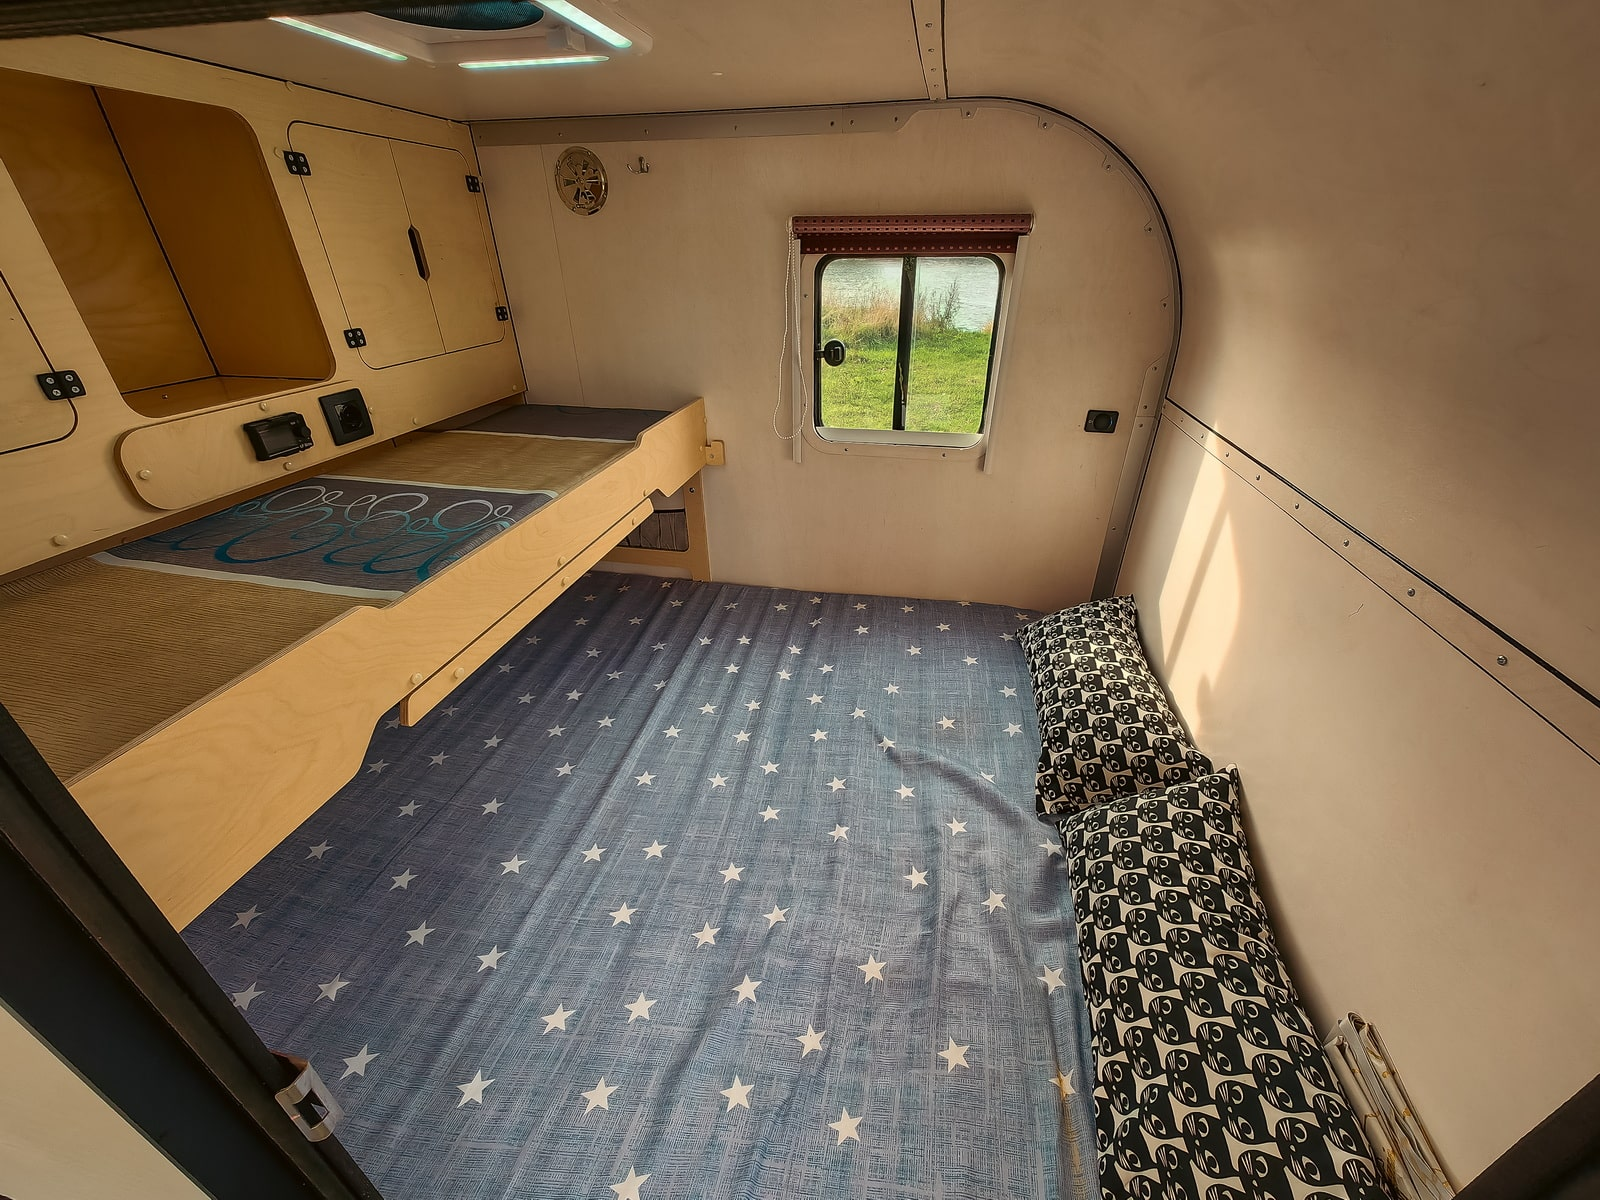
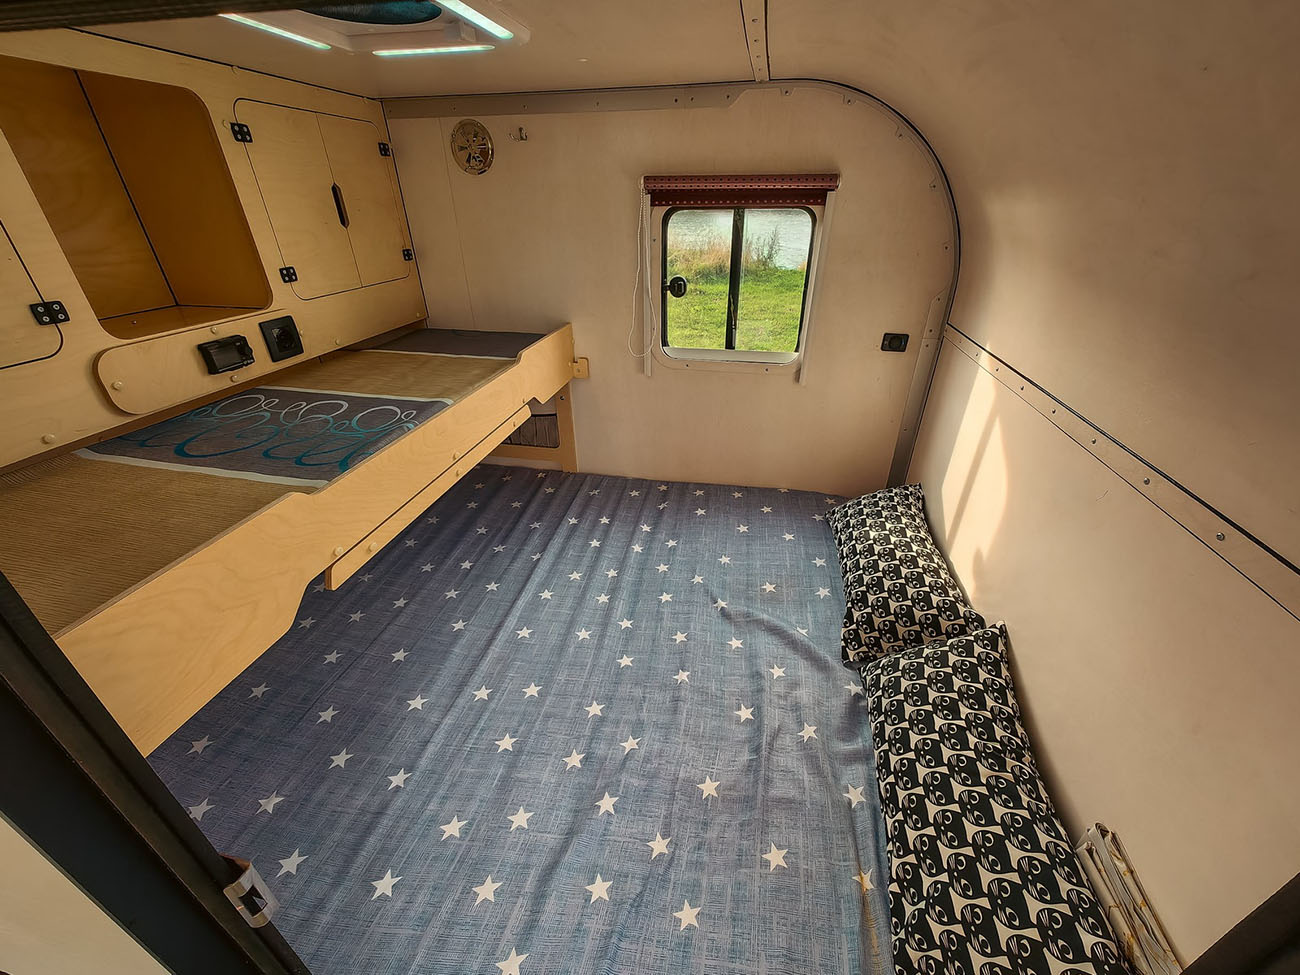
уменьшен размер фотографий

diff --git a/minicamper/src/components/Gallery/Gallery.tsx b/minicamper/src/components/Gallery/Gallery.tsx
@@ -5,12 +5,14 @@ import { RoadIcon } from '../../icons/Road';
 import ContentWrapper from '../../layout/ContentWrapper/ContentWrapper';
 
 import 'react-responsive-carousel/lib/styles/carousel.min.css';
+import { isMobile } from '../../utils/device';
 import styles from './Gallery.module.sass';
 
 interface GalleryProps {
 }
 
-const path = 'gallery/';
+const PATH = 'gallery/';
+const PATH_MOBILE = 'gallery-mobile/';
 const images = [
     '1.jpg',
     '2.jpg',
@@ -24,6 +26,8 @@ const images = [
 ];
 
 const Gallery: FC<GalleryProps> = () => {
+    const path = isMobile() ? PATH_MOBILE : PATH;
+
     return (
         <div id="gallery" className={styles.GalleryWrapper}>
             <div className={styles.Background}>
